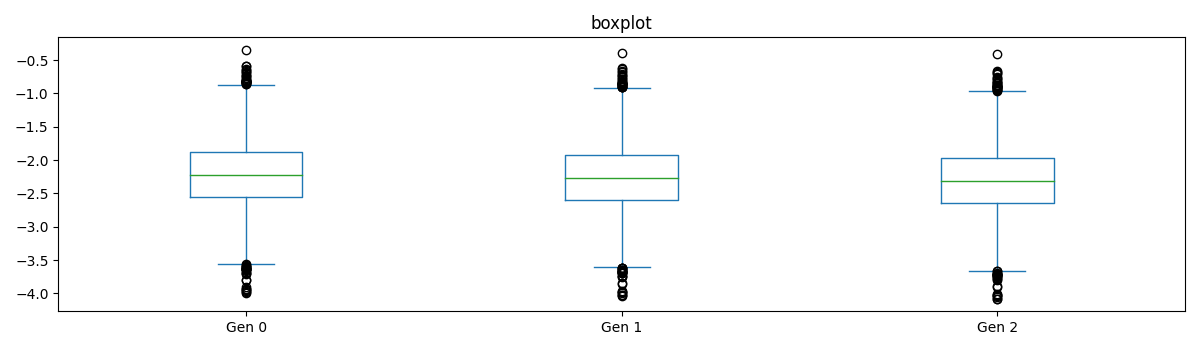
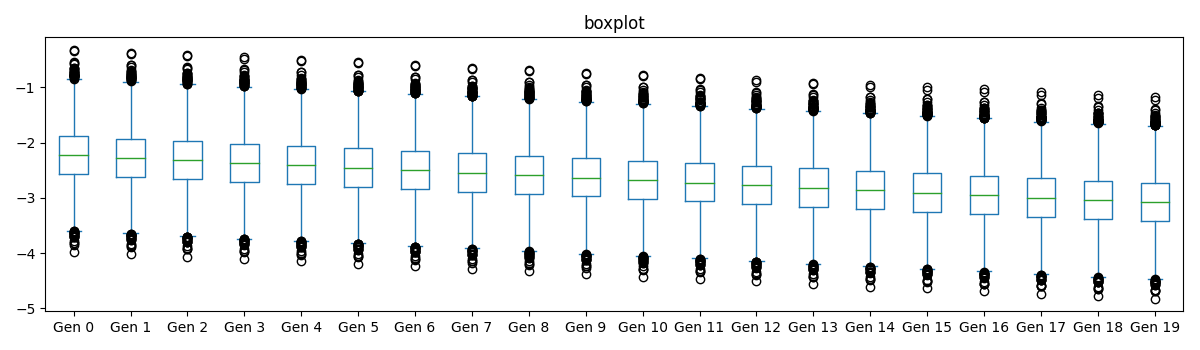
evolve backwards and progress bar

diff --git a/fisher-geometric-model.py b/fisher-geometric-model.py
@@ -1,6 +1,7 @@
 import numpy as np
 from matplotlib import pyplot as plt
 import pandas as pd
+from alive_progress import alive_bar as bar
 
 def select_parents(population, fitness_func):
     """
@@ -31,7 +32,7 @@ def next_gen(population, fitness_func):
         mutations[i] = vector # assign the mutation vector to the offspring
     return mutations, parents
 
-def plot_fitnesses():
+def plot_fitnesses(fitnesses):
     """
     Plot the fitnesses of the population
     """
@@ -49,6 +50,27 @@ def plot_fitnesses():
 
     # Display the plot
     plt.savefig('imgs/fitnesses-fgm.png')
+
+def simulation(n, a, Q, s0, r, sigma, x, e, m, N, mu, fitness, generations):
+    # initialize population
+    population = np.random.normal(1.5, 0.5, size=(N, n)) # random population
+    fitnesses = np.zeros((generations, N))
+    j = 0
+    while j < fitnesses.shape[1]:
+        fitnesses[0][j] = fitness(np.linalg.norm(population[j])) # calculate fitness of each individual
+        j += 1
+
+    for i in range(generations):
+        mutations, parents = next_gen(population, fitness)
+        population = np.add(population, mutations) # mutate population
+        yield
+        j = 0
+        while j < fitnesses.shape[1]:
+            fitnesses[i][j] = fitness(np.linalg.norm(population[j])) # calculate fitness of each individual in next generation
+            j += 1
+
+    print(fitnesses)
+    plot_fitnesses(fitnesses)
 
 if __name__=='__main__':
     """ PARAMETERS """
@@ -73,23 +95,6 @@ if __name__=='__main__':
     """ PARAMETERS """
 
     """ SIMULATION """
-    # initialize population
-    population = np.random.normal(1.5, 0.5, size=(N, n)) # random population
-    fitnesses = np.zeros((generations, N))
-    j = 0
-    while j < fitnesses.shape[1]:
-        fitnesses[0][j] = fitness(np.linalg.norm(population[j])) # calculate fitness of each individual
-        j += 1
-
-    for i in range(generations):
-        mutations, parents = next_gen(population, fitness)
-        population = np.add(population, mutations) # mutate population
-        j = 0
-        while j < fitnesses.shape[1]:
-            fitnesses[i][j] = fitness(np.linalg.norm(population[j])) # calculate fitness of each individual in next generation
-            j += 1
-        # fitnesses[i] *= 2
-
-    print(fitnesses)
-    plot_fitnesses()
-
+    with bar(generations) as b:
+        for i in simulation(n, a, Q, s0, r, sigma, x, e, m, N, mu, fitness, generations):
+            b()
